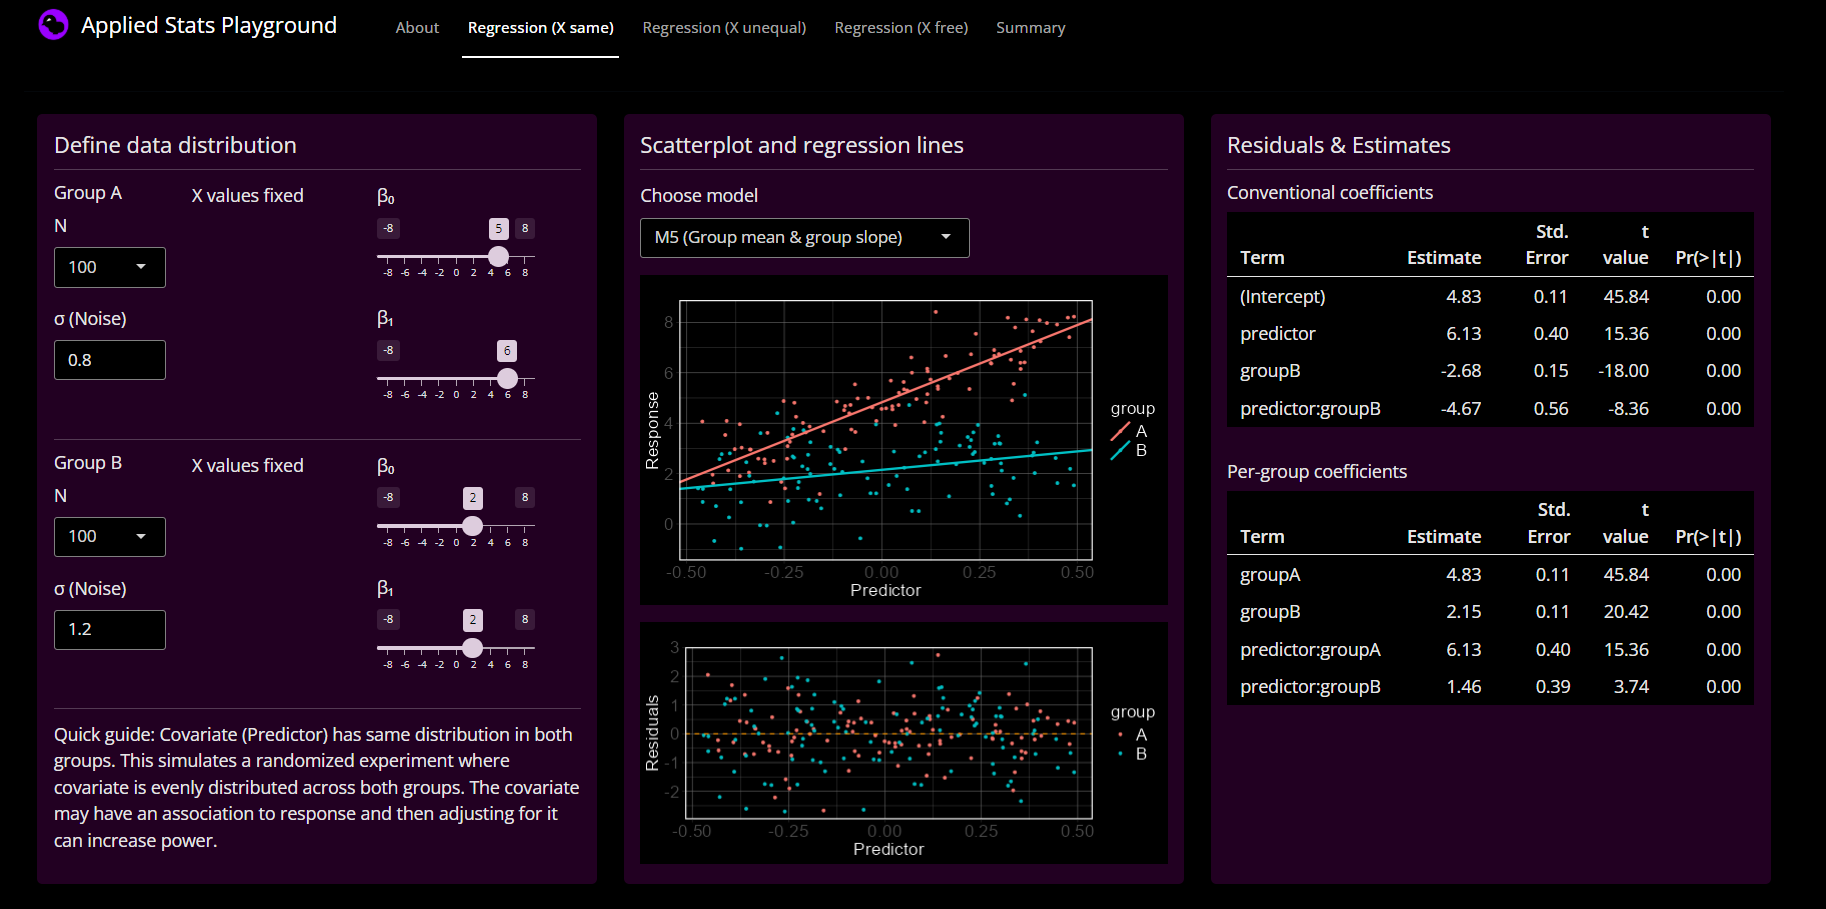
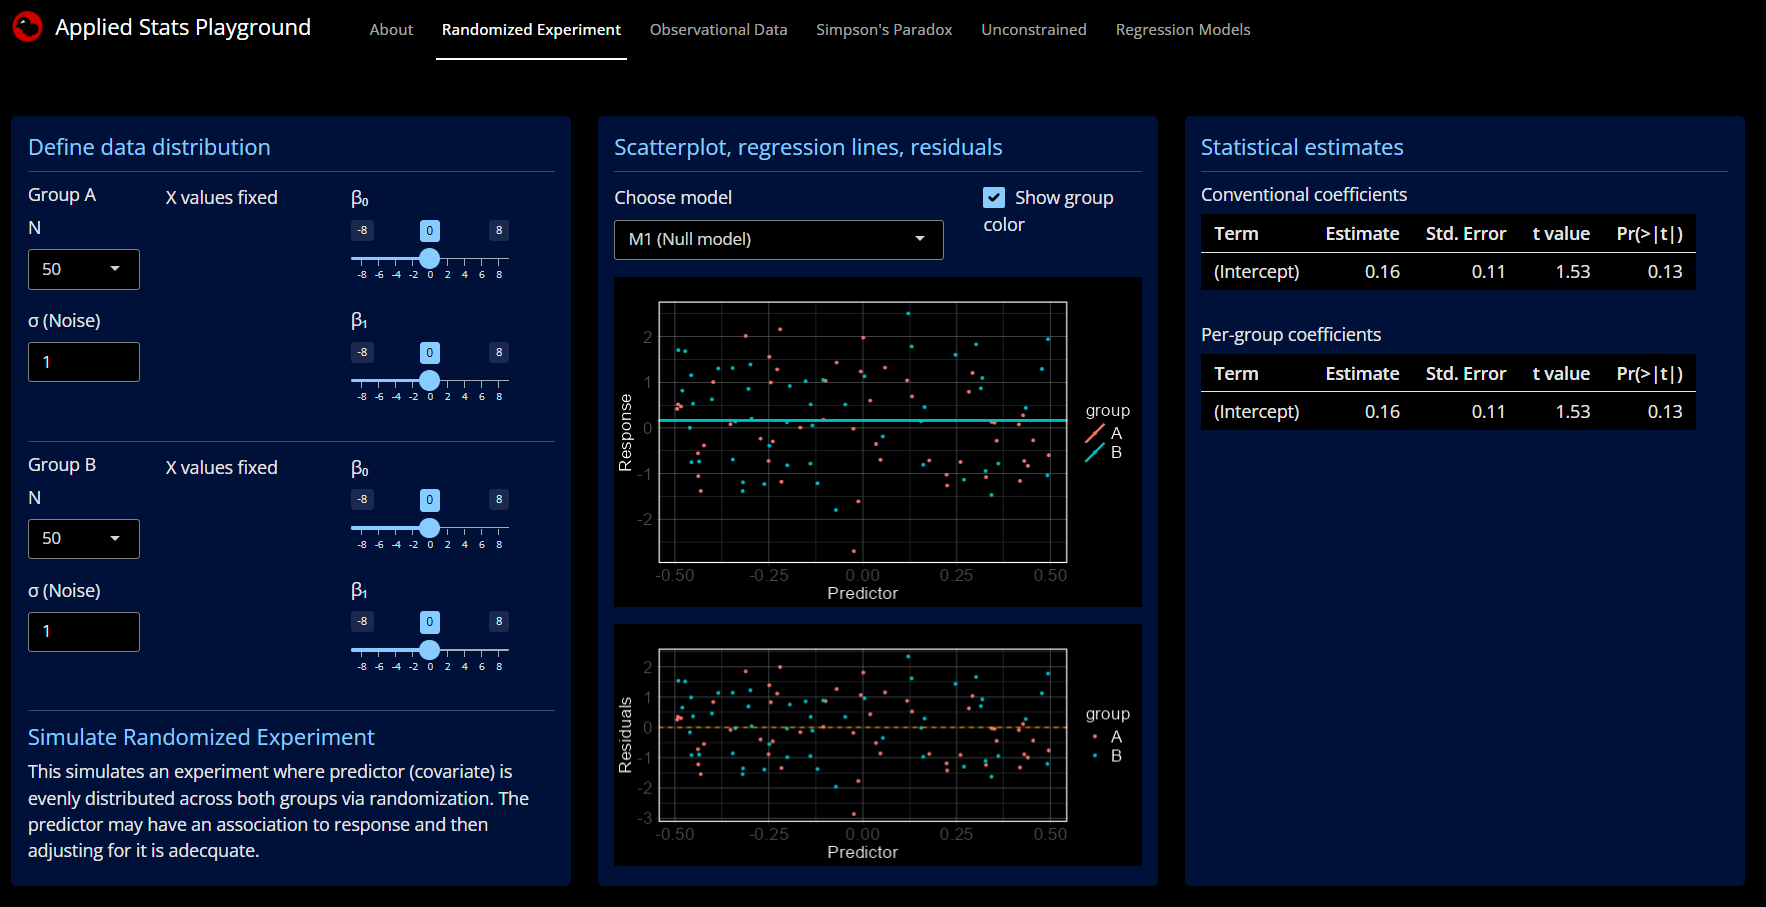
updated readme

diff --git a/readme.md b/readme.md
@@ -7,11 +7,12 @@ underlying structures, involving one grouping variable and one continuous
 predictor. They can fit and compare regression models of varying complexity, 
 assessing their suitability for each scenario through visualisations and summary tables.
 
+### Preview
+<img src="contents/app_screenshot.png" width="500">
+
 ### Dependencies
 - R 4.5.1
-- tidyverse
-- shiny
-- bslib
+- tidyverse · shiny · bslib
 
 ### Data Source
 - Simulated data, no external data needed.
@@ -94,8 +95,7 @@ didactic_stats_app/
 ### License
 [MIT License - © 2026 Serge Zaugg](LICENSE)
 
-### Preview
-![Description](contents/app_screenshot.png)
+
 
 
 
